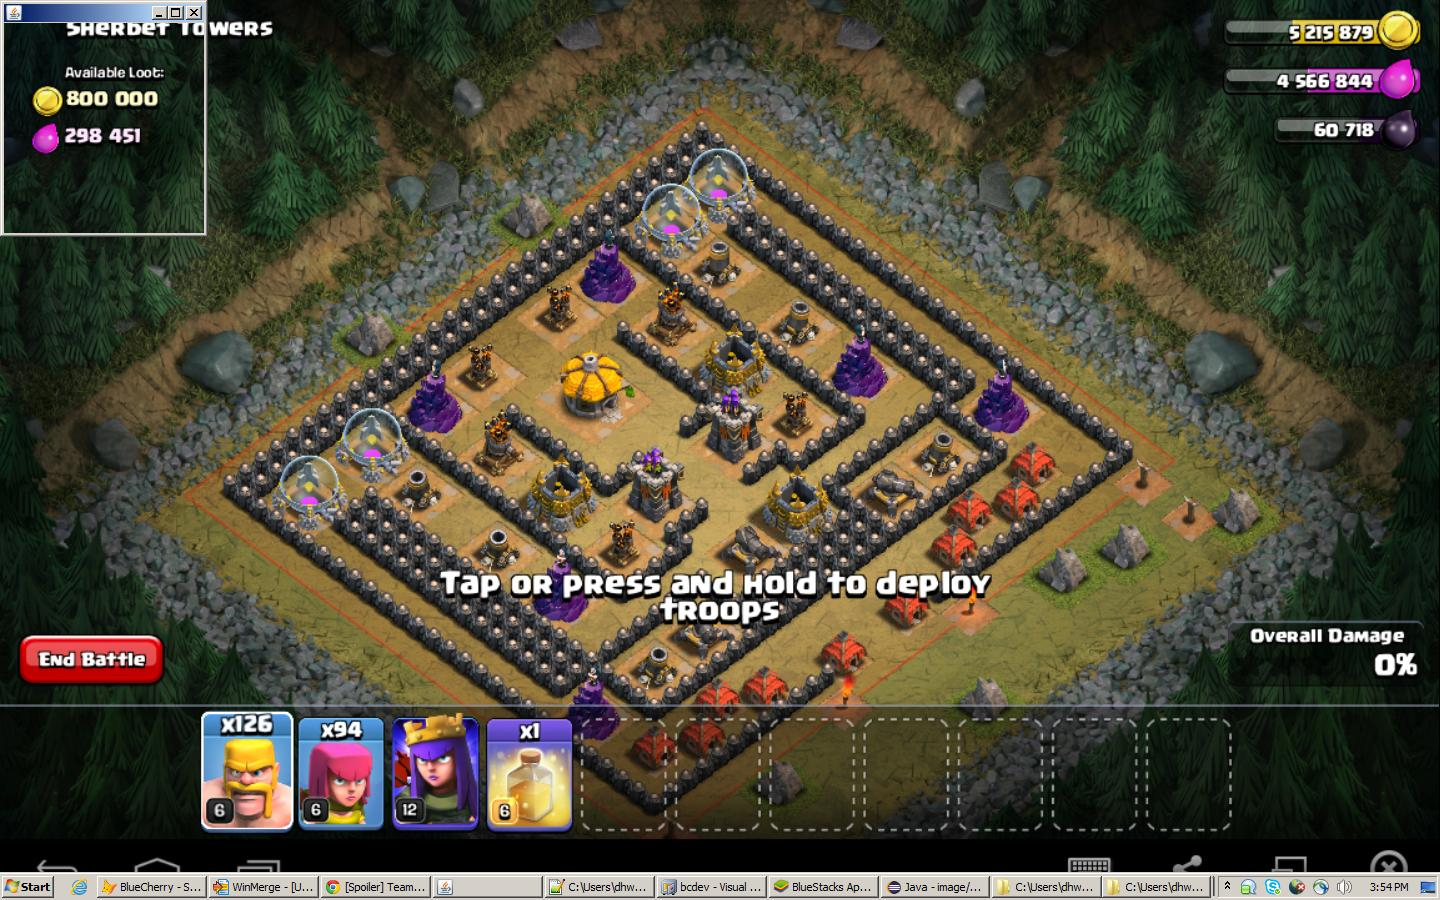
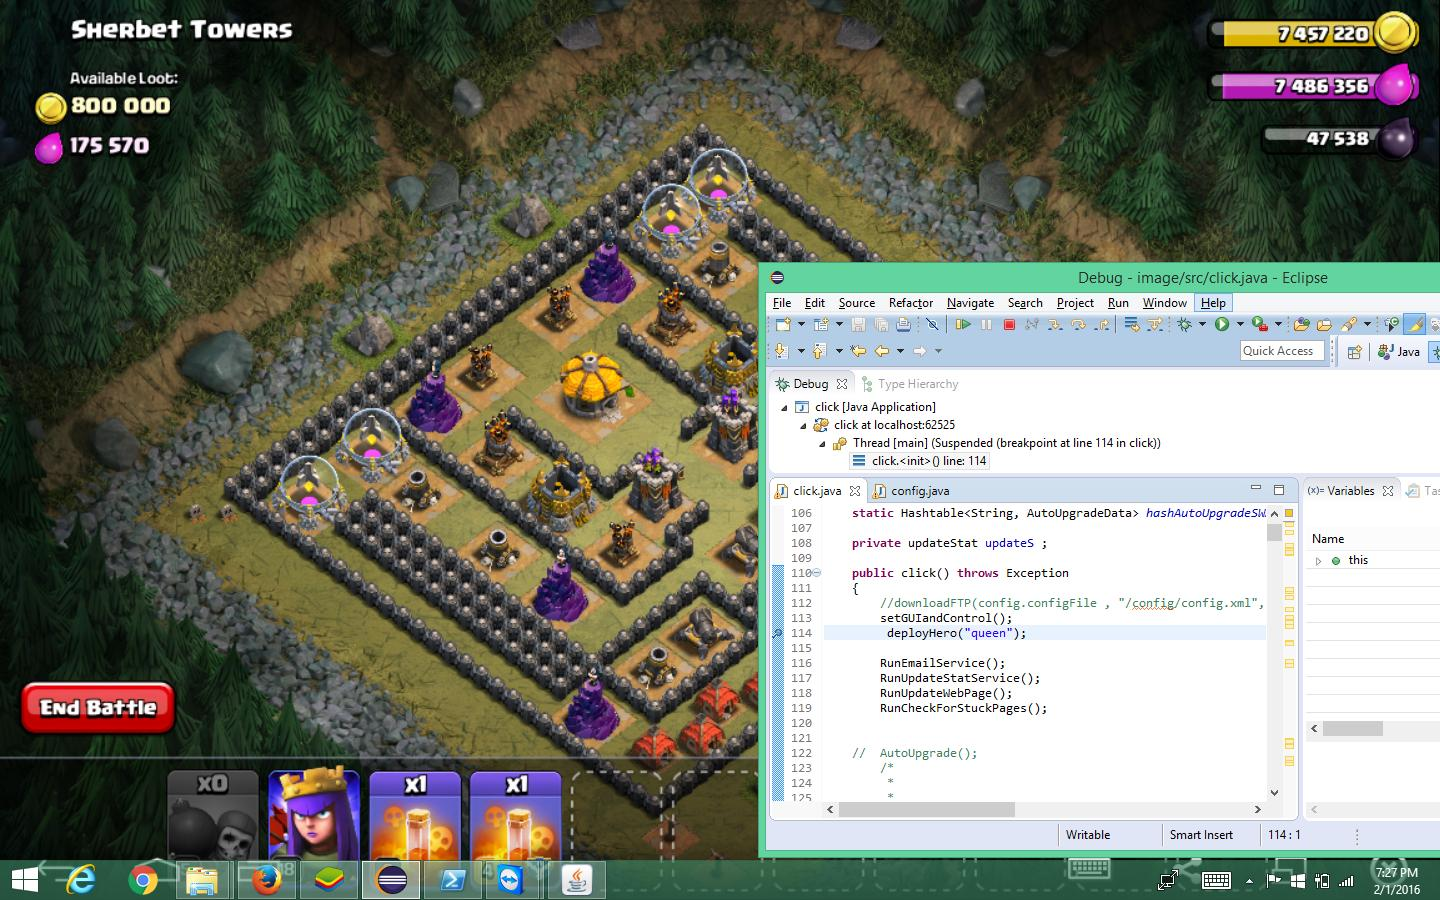
queen update, change method for loot full swap

diff --git a/src/click.java b/src/click.java
@@ -111,7 +111,7 @@ public class click
 	{
 		//downloadFTP(config.configFile , "/config/config.xml", true);  
 		setGUIandControl();					
-		
+		// deployHero("queen");
 		
 		RunEmailService();
 		RunUpdateStatService();
@@ -614,15 +614,25 @@ public class click
 	 * should get call after every successful swap.
 	 * 
 	 * 
+	 * ** RE WRITE, uses loot % to see if loot full
+	 * 
+	 * 
 	 */
 	public boolean getSetLootFull(String e)
 	{
 		boolean ret = false;
 		AutoUpgradeData aud = null; 
 
+		aud = hashAutoUpgradeSWAP.get(e);
+		
+		int gold = aud.getTempIntA();
+		int elixir = aud.getTempIntB();
+		
+		
+		
 		try{
 			
-			if(compareImage("maxElixir") && compareImage("maxGold"))
+			if(gold > 90 &&  elixir > 90)
 			{
 				guiFrame.info("loot is full for email account " + e);
 				ret = true;				
